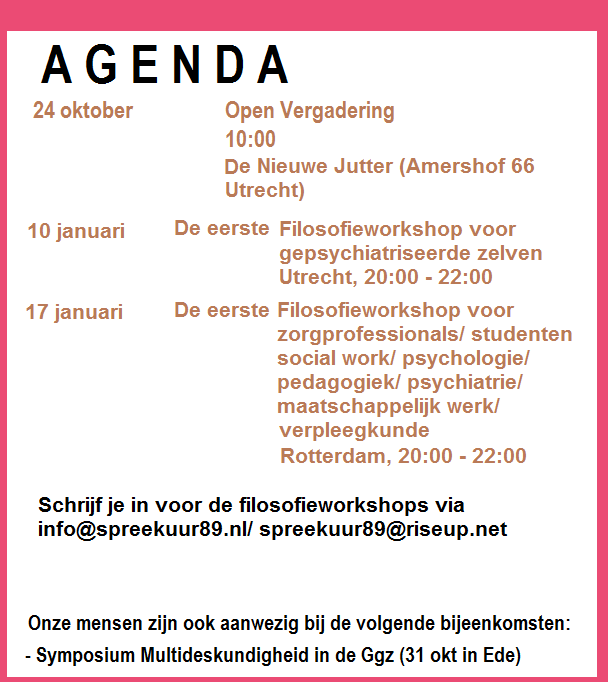
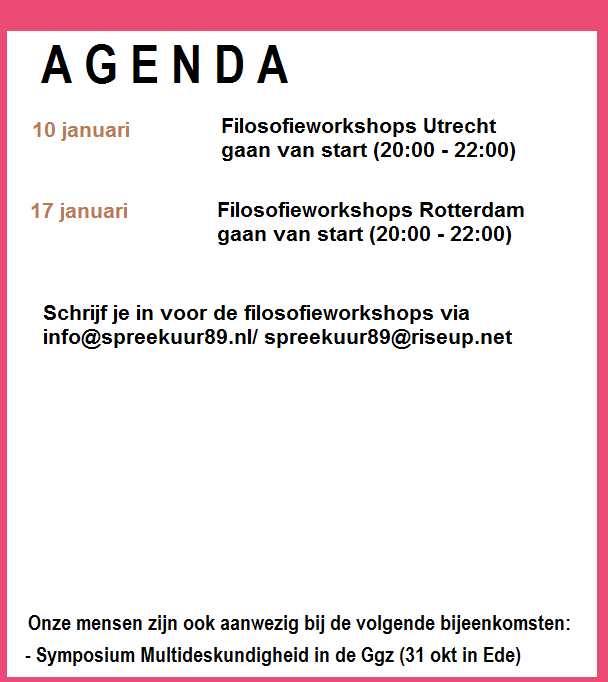
26 okt

diff --git a/filosofie2.html b/filosofie2.html
@@ -74,8 +74,10 @@ Deze workshops worden eerst gescheiden gedaan omdat elke groep weer met eigen co
 Op de hoogte blijven? Schrijf je in op de nieuwsbrief via een mail naar info@spreekuur89.nl<br><br>
 <b>Vooralsnog staan de eerste workshops gepland:</b><br>
 <b><i>Inschrijven kan al. Stuur daarvoor een mailtje naar info@spreekuur89.nl</i></b><br><br>
-- 10 januari 2018 Eerste Filosofieworkshop voor gepsychiatriseerde zelven: mensen met ervaringen met de ggz. Locatie: De Nieuwe Jutter (definitie bevestiging nog in afwachting), tijd 20:00-22:00<br><br>
-- 16 of 17 januari 2018 Eerste Filosofieworkshop voor ggz-professionals in Rotterdam (in een locatie pal tegenover Centraal Station)<br><br>
+- 10 januari 2018 Eerste Filosofieworkshop in Utrecht. Locatie: De Nieuwe Jutter (definitie bevestiging nog in afwachting), tijd 20:00-22:00<br><br>
+- 16 of 17 januari 2018 Eerste Filosofieworkshop in Rotterdam (in een locatie pal tegenover Centraal Station)<br><br>
+<b>Voor wie?</b><br>
+Voor gepsychiatriseerde zelven, voor studenten in de zorgdisciplines/ psychologie/ psychiatrie, zorgprofessionals, mensen met meerdere van deze posities, mensen geïnteresseerd in kritische filosofie over psychiatrie, zorg en waanzin.<br><br>
 <b>De docent is <a href="https://www.youtube.com/user/1986Joeri">Joeri Kooimans</a>. Hij doceert ook filosofie aan de Hogeschool Rotterdam aan social work studenten en bij stagiares en medewerkers bij het Wegloophuis Utrecht. </b><br><br><br>
 
 
